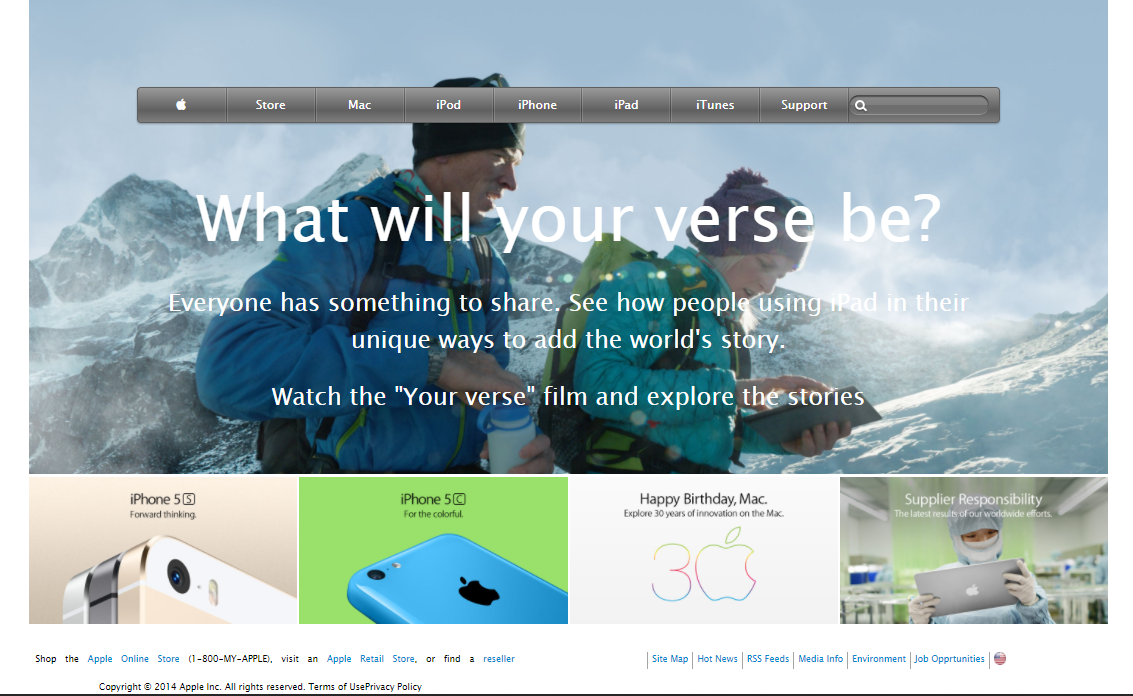
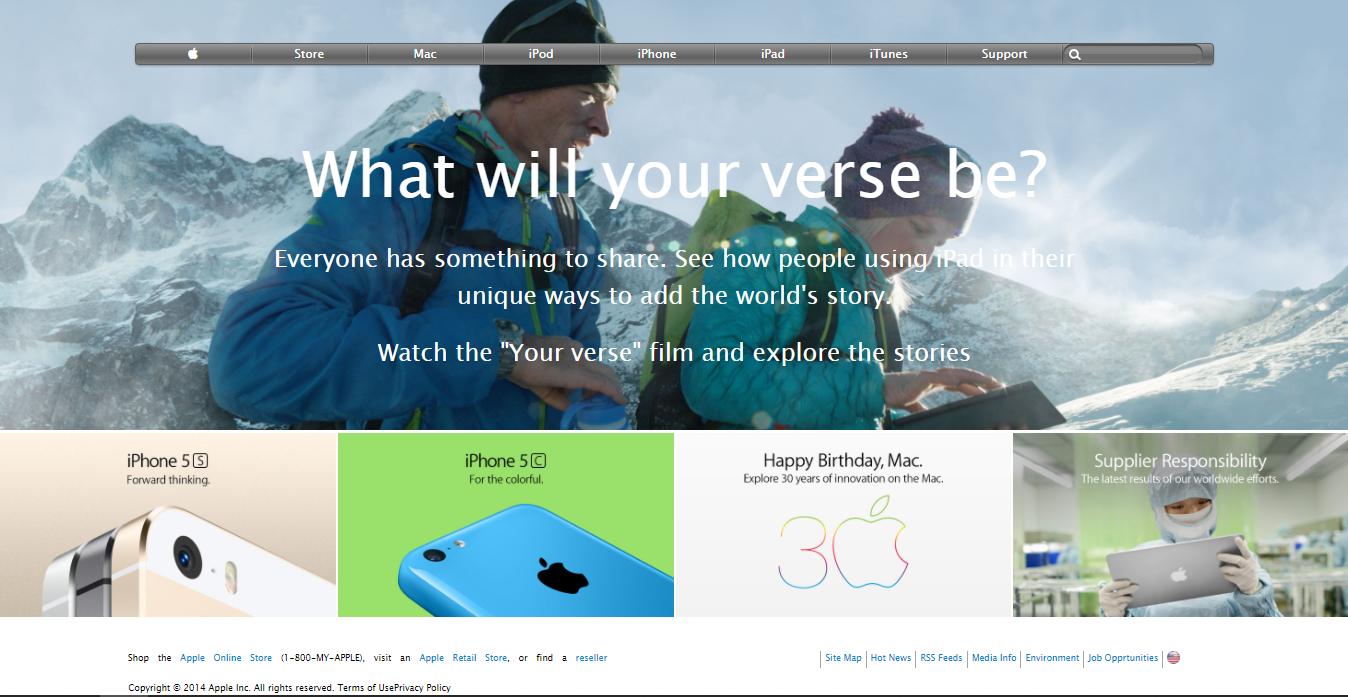
styled the footer

diff --git a/css/style.css b/css/style.css
@@ -158,5 +158,5 @@ a {
 }
 
 .copyright {
-  float: left;
+  margin: 2% 0 0 19%;
 }
